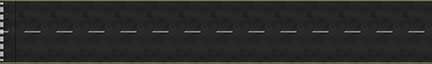
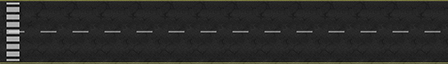
vehicles ways positions

Changed region(s): [[0.0, 0.0, 0.8426, 0.9688]]

diff --git a/src/main/java/de/tu_clausthal/in/meclab/verkehrssimulation/simulation/virtual/IBaseWay.java b/src/main/java/de/tu_clausthal/in/meclab/verkehrssimulation/simulation/virtual/IBaseWay.java
@@ -17,8 +17,15 @@ public abstract class IBaseWay implements IVirtual
      * sprite
      */
     private Sprite m_sprite;
+
     /**
-     * defines the left bottom position (row / column), width, height
+     * defines the left bottom position of the sprite (row / column)
+     * ToDO: we will be thinking of deleting this after changing to another game engine
+     */
+    private final DoubleMatrix1D m_spriteposition;
+
+    /**
+     * defines the left bottom position in grid (row / column), width, height,
      */
     private final DoubleMatrix1D m_position;
 
@@ -30,14 +37,30 @@ public abstract class IBaseWay implements IVirtual
     /**
      * constructor
      *
-     * @param p_position position
+     * @param p_spriteposition position
+     * @param p_leftbottom leftbottom position in grid
+     * @param p_righttop righttop position in grid
      * @param p_rotation rotation
-     * @param p_width width
-     * @param p_height height
      */
-    protected IBaseWay( final List<Integer> p_position, final int p_rotation, final int p_width, final int p_height )
+    protected IBaseWay( final List<Integer> p_spriteposition, final List<Integer> p_leftbottom, final List<Integer> p_righttop, final int p_rotation )
     {
-        m_position = new DenseDoubleMatrix1D( new double[]{p_position.get( 1 ), p_position.get( 0 ), p_width, p_height} );
+        m_spriteposition = new DenseDoubleMatrix1D( new double[]{
+            p_spriteposition.get( 0 ),
+            p_spriteposition.get( 1 )
+        } );
+
+        if ( ( p_leftbottom == null ) || ( p_leftbottom.size() != 2 ) )
+            throw new RuntimeException( "left-bottom corner is not set" );
+        if ( ( p_righttop == null ) || ( p_righttop.size() != 2 ) )
+            throw new RuntimeException( "right-top corner is not set" );
+
+        m_position = new DenseDoubleMatrix1D( new double[]{
+            Math.min( p_leftbottom.get( 0 ), p_righttop.get( 0 ) ),
+            Math.min( p_leftbottom.get( 1 ), p_righttop.get( 1 ) ),
+
+            Math.abs( p_righttop.get( 0 ) - p_leftbottom.get( 0 ) + 1 ),
+            Math.abs( p_righttop.get( 1 ) - p_leftbottom.get( 1 ) + 1 )
+        } );
         m_rotation = p_rotation;
     }
 
@@ -49,10 +72,11 @@ public abstract class IBaseWay implements IVirtual
     public void spriteinitialize( final float p_unit, final Texture p_texture )
     {
         m_sprite = new Sprite( p_texture );
-        m_sprite.setPosition( (float) m_position.get( 1 ), (float) m_position.get( 0 ) );
-        m_sprite.setSize( (float) m_position.get( 2 ) * p_unit, (float) m_position.get( 3 ) * p_unit );
+        m_sprite.setPosition( (float) m_spriteposition.get( 0 ), (float) m_spriteposition.get( 1 ) );
         m_sprite.setOrigin( 0, 0 );
         m_sprite.setRotation( m_rotation );
+        //ToDO: I will change this after changing to another game engine
+        m_sprite.setSize( 28, 4 );
     }
 
     @Override

diff --git a/src/main/java/de/tu_clausthal/in/meclab/verkehrssimulation/simulation/environment/CEnvironment.java b/src/main/java/de/tu_clausthal/in/meclab/verkehrssimulation/simulation/environment/CEnvironment.java
@@ -11,9 +11,13 @@ import com.badlogic.gdx.maps.tiled.TmxMapLoader;
 import de.tu_clausthal.in.meclab.verkehrssimulation.CCommon;
 import de.tu_clausthal.in.meclab.verkehrssimulation.simulation.IObject;
 import de.tu_clausthal.in.meclab.verkehrssimulation.simulation.algorithm.routing.IRouting;
+import de.tu_clausthal.in.meclab.verkehrssimulation.simulation.virtual.CVehiclesWay;
+import de.tu_clausthal.in.meclab.verkehrssimulation.simulation.virtual.IBaseWay;
 
+import java.util.LinkedList;
 import java.util.List;
 import java.util.logging.Logger;
+import java.util.stream.IntStream;
 import java.util.stream.Stream;
 
 /**
@@ -53,12 +57,12 @@ public class CEnvironment implements IEnvironment
 
     /**
      * create environment
-     *
-     * @param p_cellrows number of row cells
+     *  @param p_cellrows number of row cells
      * @param p_cellcolumns number of column cells
      * @param p_cellsize cell size
+     * @param p_ways list of all ways
      */
-    public CEnvironment( final int p_cellrows, final int p_cellcolumns, final int p_cellsize, final IRouting p_routing )
+    public CEnvironment( final int p_cellrows, final int p_cellcolumns, final int p_cellsize, final IRouting p_routing, final List<? extends IBaseWay> p_ways )
     {
         if ( ( p_cellcolumns < 1 ) || ( p_cellrows < 1 ) || ( p_cellsize < 1 ) )
             throw new IllegalArgumentException( "environment size must be greater or equal than one" );
@@ -69,6 +73,7 @@ public class CEnvironment implements IEnvironment
         m_routing = p_routing;
         m_positions = new SparseObjectMatrix2D( m_row, m_column );
 
+        p_ways.forEach( i -> CCommon.inttupelstream( i ).forEach( j -> m_positions.setQuick( j.getLeft(), j.getRight(), i ) ) );
     }
 
     @Override
@@ -181,6 +186,28 @@ public class CEnvironment implements IEnvironment
     private static double clip( final double p_value, final double p_max )
     {
         return Math.max( Math.min( p_value, p_max - 1 ), 0 );
+    }
+
+    /**
+     * get positions of vehicles ways
+     *
+     * @return list of positions of vehicles ways
+     */
+    public List<DenseDoubleMatrix1D> positionsOfVehiclesWays()
+    {
+        final List<DenseDoubleMatrix1D> l_positionsOfVehiclesWays = new LinkedList<>();
+        IntStream.range( 0, m_positions.rows() )
+            .forEach( i -> IntStream.range( 0, m_positions.columns() )
+                .forEach( j ->
+                    {
+                        if ( m_positions.getQuick( i, j ) instanceof CVehiclesWay )
+                        {
+                            l_positionsOfVehiclesWays.add( new DenseDoubleMatrix1D( new double[]{i, j} ) );
+                        }
+                    }
+                )
+            );
+        return l_positionsOfVehiclesWays;
     }
 
 

diff --git a/src/main/java/de/tu_clausthal/in/meclab/verkehrssimulation/CConfiguration.java b/src/main/java/de/tu_clausthal/in/meclab/verkehrssimulation/CConfiguration.java
@@ -136,7 +136,8 @@ public final class CConfiguration
             (Integer) ( (Map<String, Object>) l_data.getOrDefault( "environment", Collections.<String, Integer>emptyMap() ) )
                 .getOrDefault( "cellsize", -1 ),
             ERoutingFactory.valueOf( ( (String) ( (Map<String, Object>) l_data.getOrDefault( "environment", Collections.<String, Integer>emptyMap() ) )
-                .getOrDefault( "routing", "" ) ).trim().toUpperCase() ).get()
+                .getOrDefault( "routing", "" ) ).trim().toUpperCase() ).get(),
+            m_ways
         );
 
         // create agents
@@ -279,10 +280,10 @@ public final class CConfiguration
             .map( i -> (Map<String, Object>) i.get( "vehicles" ) )
             .filter( Objects::nonNull )
             .map( i -> new CVehiclesWay(
-                (List<Integer>) i.get( "position" ),
-                (int) i.get( "rotation" ),
-                (int) i.get( "width" ),
-                (int) i.get( "height" )
+                (List<Integer>) i.get( "spriteposition" ),
+                (List<Integer>) i.get( "leftbottom" ),
+                (List<Integer>) i.get( "righttop" ),
+                (int) i.get( "rotation" )
             ) )
             .forEach( p_ways::add );
     }
@@ -297,6 +298,7 @@ public final class CConfiguration
     @SuppressWarnings( "unchecked" )
     private void createAgents( final List<Map<String, Object>> p_agentsConfiguration, final List<IAgent> p_elements, final boolean p_agentprint ) throws IOException
     {
+        /*
         final Map<String, IAgentGenerator<IAgent>> l_agentgenerator = new HashMap<>();
         final Set<IAction> l_action = Collections.unmodifiableSet(
             Stream.concat(
@@ -348,7 +350,7 @@ public final class CConfiguration
                     System.err.println( MessageFormat.format( "error on agent generation: {0}", l_exception ) );
                 }
 
-            } );
+            } );*/
     }
 
     /**

diff --git a/src/main/java/de/tu_clausthal/in/meclab/verkehrssimulation/CCommon.java b/src/main/java/de/tu_clausthal/in/meclab/verkehrssimulation/CCommon.java
@@ -1,9 +1,16 @@
 package de.tu_clausthal.in.meclab.verkehrssimulation;
 
+import de.tu_clausthal.in.meclab.verkehrssimulation.simulation.IObject;
+import org.apache.commons.lang3.tuple.ImmutablePair;
+import org.apache.commons.lang3.tuple.Pair;
+
 import java.io.File;
 import java.net.MalformedURLException;
 import java.net.URISyntaxException;
 import java.net.URL;
+import java.util.function.Supplier;
+import java.util.stream.IntStream;
+import java.util.stream.Stream;
 
 /**
  * common class
@@ -20,6 +27,36 @@ public final class CCommon
      */
     private CCommon()
     {
+    }
+
+    /**
+     * creates an int-pair-stream of an element
+     *
+     * @param p_object object but position must be return a vector with 4 elements
+     * @return int-pair-stream
+     */
+    public static Stream<Pair<Integer, Integer>> inttupelstream( final IObject p_object )
+    {
+        return CCommon.inttupelstream(
+            (int) p_object.position().get( 0 ), (int) ( p_object.position().get( 0 ) + p_object.position().get( 2 ) ),
+            (int) p_object.position().get( 1 ), (int) ( p_object.position().get( 1 ) + p_object.position().get( 3 ) )
+        );
+    }
+
+
+    /**
+     * creates an int-pair-stream
+     *
+     * @param p_firststart start value of first component
+     * @param p_firstend end (inclusive) of first component
+     * @param p_secondstart start value of second component
+     * @param p_secondend end (inclusive) of second component
+     * @return int-pair-sream
+     */
+    public static Stream<Pair<Integer, Integer>> inttupelstream( final int p_firststart, final int p_firstend, final int p_secondstart, final int p_secondend )
+    {
+        final Supplier<IntStream> l_inner = () -> IntStream.rangeClosed( p_secondstart, p_secondend );
+        return IntStream.rangeClosed( p_firststart, p_firstend ).boxed().flatMap( i -> l_inner.get().mapToObj( j -> new ImmutablePair<>( i, j ) ) );
     }
 
     /**

diff --git a/src/main/java/de/tu_clausthal/in/meclab/verkehrssimulation/simulation/virtual/CVehiclesWay.java b/src/main/java/de/tu_clausthal/in/meclab/verkehrssimulation/simulation/virtual/CVehiclesWay.java
@@ -19,14 +19,14 @@ public class CVehiclesWay extends IBaseWay
     /**
      * constructor
      *
-     * @param p_position list of left bottom position
+     * @param p_spriteposition list of left bottom position of the sprite
+     * @param p_leftbottom leftbottom position in grid
+     * @param p_righttop righttop position in grid
      * @param p_rotation rotation
-     * @param p_width width
-     * @param p_height height
      */
-    public CVehiclesWay( final List<Integer> p_position, final int p_rotation, final int p_width, final int p_height )
+    public CVehiclesWay( final List<Integer> p_spriteposition, final List<Integer> p_leftbottom, final List<Integer> p_righttop, final int p_rotation )
     {
-        super( p_position, p_rotation, p_width, p_height );
+        super( p_spriteposition, p_leftbottom, p_righttop, p_rotation );
     }
 
     @Override

diff --git a/src/main/java/de/tu_clausthal/in/meclab/verkehrssimulation/CMain.java b/src/main/java/de/tu_clausthal/in/meclab/verkehrssimulation/CMain.java
@@ -62,10 +62,10 @@ public final class CMain
 
             CConfiguration.INSTANCE.environment()
         );
-        //new LwjglApplication( l_screen, l_config );
-        //CMain.execute( l_screen );
+        new LwjglApplication( l_screen, l_config );
+        CMain.execute( l_screen );
 
-
+        /*
         final Server l_server = new Server( 8080 );
         final ServletContextHandler l_handler = new ServletContextHandler( l_server, "/" );
         l_handler.addServlet( CServlet.class, "/" );
@@ -77,6 +77,7 @@ public final class CMain
         {
             e.printStackTrace();
         }
+        */
     }
 
     /**
